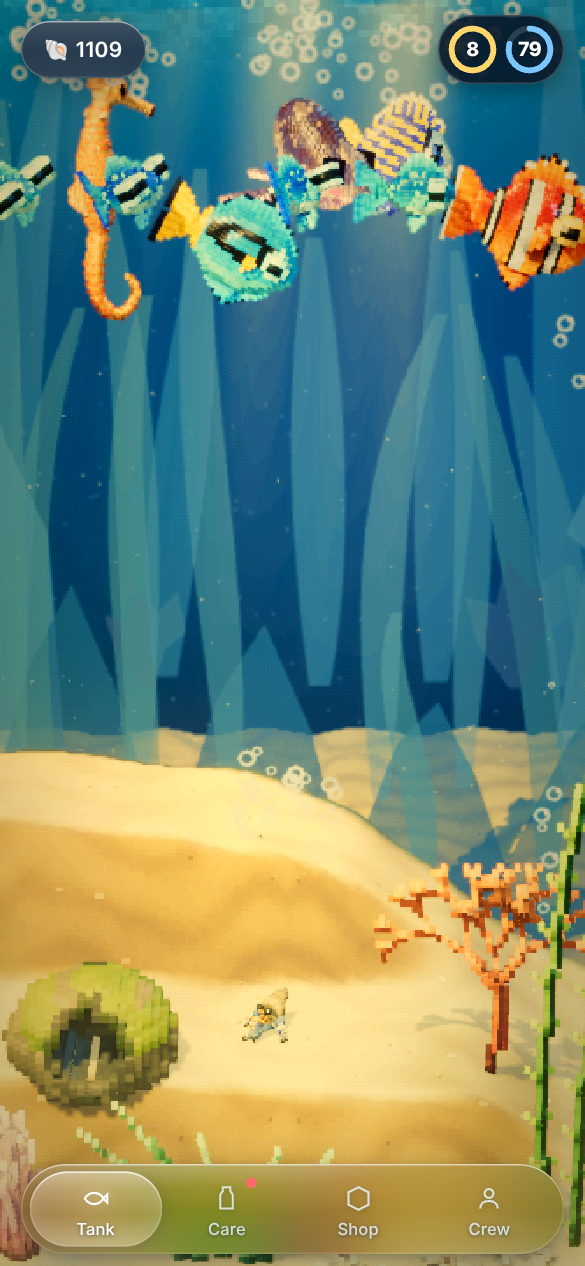
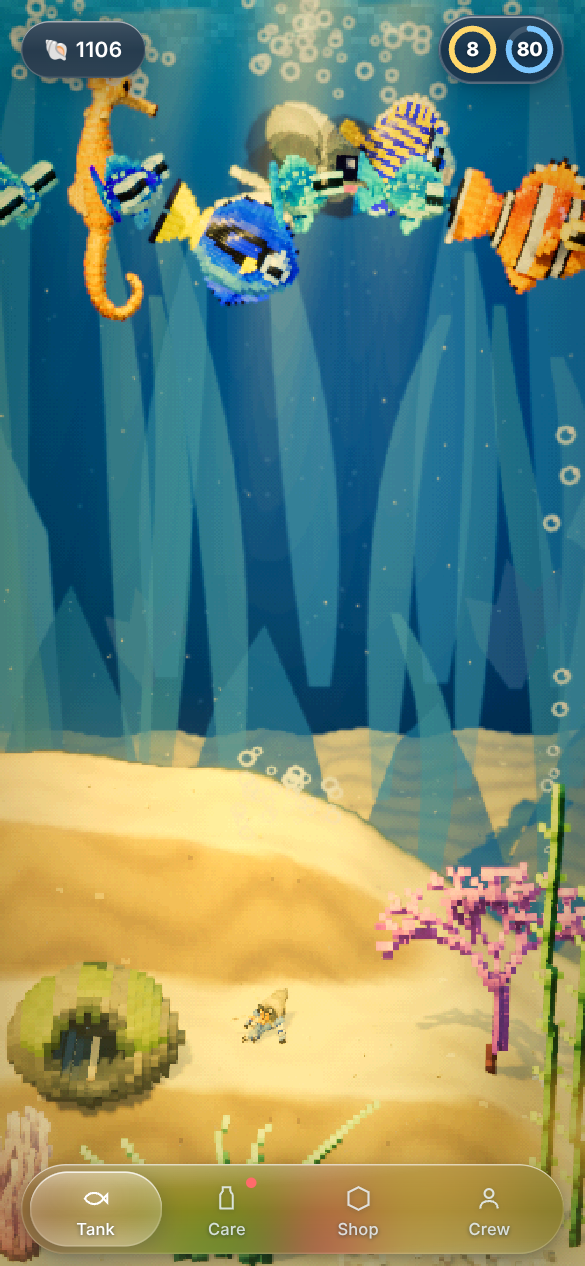
HUD on one glass, fish pill trims, a real night
- The level/health rings and the gift bar use the same glass as the shell
  pill and the sheets instead of a flat dark pill; the fish pill's doing
  line ellipsizes instead of pushing the More info button.
- Night preset: deeper water and fog, a cool moon shaft, lower exposure
  and warmth, so night reads as night rather than a brighter blue day.
- Cache v326; audit doc and night screenshot updated.

Claude-Session: https://claude.ai/code/session_01AcX8wdAS6t2Ysits5NhkSb

diff --git a/web/src/w3/stage.js b/web/src/w3/stage.js
@@ -126,7 +126,7 @@ export const TOD = {
   morning:   { sat: 1.18, vib: 0.32, sunCol: 0xf2f0d0, sunI: 10.45, sunPos: [-9, 24, 10], hemiSky: 0x98b8b0, hemiGnd: 0x5a4c34, hemiI: 1.25, ambI: 0.4, rimCol: 0x8ad8ff, rimI: 0.8, fog: 0x1e7896, fogNear: 28, fogFar: 66, bgTop: 0x60c6c8, bgBot: 0x0d5878, lampI: 0, shaft: 0.24, surf: 0.4, exposure: 1.03, bloom: 0.12, glow: 0.3, tint: 0xf4fbff, pool: 0.2, warm: 0.6 },
   afternoon: { sat: 1.22, vib: 0.35, sunCol: 0xffe8a4, sunI: 11.0, sunPos: [-6, 24, 12], hemiSky: 0xb0c8a8, hemiGnd: 0x6a5a38, hemiI: 1.5, ambI: 0.46, rimCol: 0x78ceff, rimI: 0.85, fog: 0x1a7398, fogNear: 28, fogFar: 66, bgTop: 0x58c0cc, bgBot: 0x0a4e70, lampI: 0, shaft: 0.26, surf: 0.47, exposure: 1.1, bloom: 0.12, glow: 0.4, tint: 0xfff8ec, pool: 0.2, warm: 1.0 },
   evening:   { sat: 1.02, vib: 0.28, sunCol: 0xffb07a, sunI: 12.1, sunPos: [11, 9, 10], hemiSky: 0xd0a0b0, hemiGnd: 0x58404a, hemiI: 1.0, ambI: 0.32, rimCol: 0xffa0a0, rimI: 0.7, fog: 0x4c4a7e, fogNear: 22, fogFar: 62, bgTop: 0xe9a66e, bgBot: 0x2c3c78, lampI: 50, shaft: 0.2, surf: 0.4, exposure: 1.04, bloom: 0.3, glow: 1.4, tint: 0xfff2e4, pool: 0.2, warm: 1.2 },
-  night:     { sat: 1.12, vib: 0.28, sunCol: 0x8aa4ff, sunI: 4.95, sunPos: [-4, 26, 9], hemiSky: 0x2c4690, hemiGnd: 0x0c1230, hemiI: 0.8, ambI: 0.24, rimCol: 0x4a78ff, rimI: 0.6, fog: 0x1a2868, fogNear: 18, fogFar: 54, bgTop: 0x4a5cc0, bgBot: 0x182060, lampI: 130, shaft: 0.16, surf: 0.15, exposure: 1.12, bloom: 0.39, glow: 3.0, tint: 0xeef2ff, pool: 0.15, warm: 0.2 },
+  night:     { sat: 1.08, vib: 0.26, sunCol: 0x9ab0ff, sunI: 3.9, sunPos: [-4, 26, 9], hemiSky: 0x24387a, hemiGnd: 0x0a1028, hemiI: 0.75, ambI: 0.22, rimCol: 0x4a78ff, rimI: 0.65, fog: 0x121b48, fogNear: 16, fogFar: 50, bgTop: 0x2c3c8e, bgBot: 0x0b1240, lampI: 130, shaft: 0.3, surf: 0.12, exposure: 0.98, bloom: 0.34, glow: 3.0, tint: 0xd6dcff, pool: 0.15, warm: 0.15 },      // (night is dark: deep water, a cool moon shaft, the sand gone blue-grey; it used to be a brighter blue version of the day)
 };
 export const cur = {}, ck = ['sunCol', 'hemiSky', 'hemiGnd', 'fog', 'bgTop', 'bgBot', 'tint', 'rimCol'];
 export const qs = new URLSearchParams(location.search);

diff --git a/web/index.html b/web/index.html
@@ -1137,6 +1137,13 @@ body.gifting #toast{top:calc(var(--top) + 46px)}
 /* ── polish pass: one material for every sheet, card and panel (cooler, more opaque, so the sand behind never turns it olive), tidier rows, consistent tags ── */
 :root{--lg-bg:linear-gradient(180deg,rgba(255,255,255,.14),rgba(255,255,255,.04) 52%,rgba(255,255,255,.07)),rgba(12,32,58,.84);--lg-blur:blur(26px) saturate(1.1) brightness(1.02)}
 :root{--lg-big:linear-gradient(180deg,rgba(255,255,255,.12),rgba(255,255,255,.03) 50%,rgba(255,255,255,.06)),rgba(12,32,58,.86)}      /* (the big surfaces: sheets, cards, the welcome box) */
+/* the HUD: the level and health rings sit on the same glass as the shell pill, not a separate dark pill; the fish pill's "doing" line trims cleanly; the gift bar matches */
+#bell.rings{background:var(--lg-big)!important;-webkit-backdrop-filter:var(--lg-blur)!important;backdrop-filter:var(--lg-blur)!important;border:1px solid rgba(255,255,255,.2)!important;box-shadow:var(--lg-rim),var(--lg-drop)!important}
+#fishpill{max-width:min(340px,calc(100vw - 48px))}
+#fishpill b{flex:0 1 auto;min-width:0;white-space:nowrap;overflow:hidden;text-overflow:ellipsis}
+#fishpill small{flex:1 1 auto;min-width:0;white-space:nowrap;overflow:hidden;text-overflow:ellipsis;font-size:13.5px;opacity:.85}
+#fishpill span{flex:none}
+#giftbar{background:var(--lg-big)!important;-webkit-backdrop-filter:var(--lg-blur)!important;backdrop-filter:var(--lg-blur)!important;border:1px solid rgba(255,255,255,.2)!important;box-shadow:var(--lg-rim),var(--lg-drop)!important}
 /* the strip behind the grab handle is part of the same glass, not a darker band across the top */
 #sheet .x{background:transparent!important;-webkit-backdrop-filter:none!important;backdrop-filter:none!important}
 /* the coach tip steps aside while a sheet, a card or a preview is up (it used to sit over their titles) */

diff --git a/web/sw.js b/web/sw.js
@@ -1,5 +1,5 @@
 // Caches the app shell so the game opens instantly and keeps working without a connection (solo play).
-const V = 'ourtank-v325', SHELL = ['/', '/index.html', '/manifest.webmanifest', '/icon-192.png'];
+const V = 'ourtank-v326', SHELL = ['/', '/index.html', '/manifest.webmanifest', '/icon-192.png'];
 self.addEventListener('install', (e) => { e.waitUntil(caches.open(V).then((c) => c.addAll(SHELL)).then(() => self.skipWaiting())); });
 self.addEventListener('activate', (e) => { e.waitUntil(caches.keys().then((ks) => Promise.all(ks.filter((k) => k !== V).map((k) => caches.delete(k)))).then(() => self.clients.claim())); });
 self.addEventListener('fetch', (e) => {

diff --git a/TAKO_TANK_FINAL_AUDIT.md b/TAKO_TANK_FINAL_AUDIT.md
@@ -1,6 +1,6 @@
 # Tako Tank: Final Pre-iPhone Audit
 
-**Date:** 2026-10-23 · **Build:** branch `claude/our-tank-game-design-xhmavw`, cache version **v325** (Settings shows the build; pull to refresh twice).
+**Date:** 2026-10-23 · **Build:** branch `claude/our-tank-game-design-xhmavw`, cache version **v326** (Settings shows the build; pull to refresh twice).
 **No physical iPhone and no real player have been tested yet.** Everything below is from the code, unit tests and headless-browser drills (about 0.3 frames per second, so timings and smoothness on screen are unknown).
 
 ---
@@ -71,6 +71,10 @@ Homebody behavior, early trick progression (`twirl_check`), return news (`return
 - **The tapped-fish close-up:** the camera used to move to about 6 units from the fish with a wide aperture, which is the smeared, ballooned clownfish in the phone screenshot. It now stops at 9.5 units (11.5 × the fish's radius for big ones) with a gentler depth of field (aperture 0.00038, max blur 0.009; the tank view's own blur eased from 0.00022/0.006 to 0.00018/0.005). Not verified visually: the headless capture cannot hold the close-up long enough.
 - **Grain:** the grade pass quantizes to 44 color steps instead of 31, with the dither at 0.55 instead of 1.0: it still breaks banding, it should no longer read as a dotted texture on a real screen (unverified on a phone).
 - **Fish depth:** the open-water floor dropped from y 6.3 to 4.8 and the bands for tang, goldfish, neon, angelfish, guppy, danio and betta came down. Measured, eight fish, three simulated minutes: time above y 9 (the top third under the HUD) **47 % → 20 %**, in the midwater (4–9) **51 % → 76 %**; neon and danio still keep high (60 %, 57 % above 9), the rest live mid.
+
+## 3d. HUD and night (this build)
+- **HUD:** the level/health rings and the gift bar sit on the same glass as the shell pill and the sheets (they were a separate flat dark pill); the fish pill's "doing" line trims with an ellipsis instead of pushing the button; no layout change.
+- **Night:** a real night rather than a brighter blue day: deeper water (background 0x2c3c8e → 0x0b1240), darker fog, a cool moon shaft (shaft 0.16 → 0.3, exposure 1.12 → 0.98), the sand gone blue-grey, warmth down. `docs/audit/gfx_after_night.png`. The lamp, plankton glow and bioluminescence settings are untouched.
 
 ## 3b. Movement pass (how everything moves)
 Measured with the new `tools/motion_check.mjs` (the same scenario on the old code and this one, 20 simulation steps a second):
